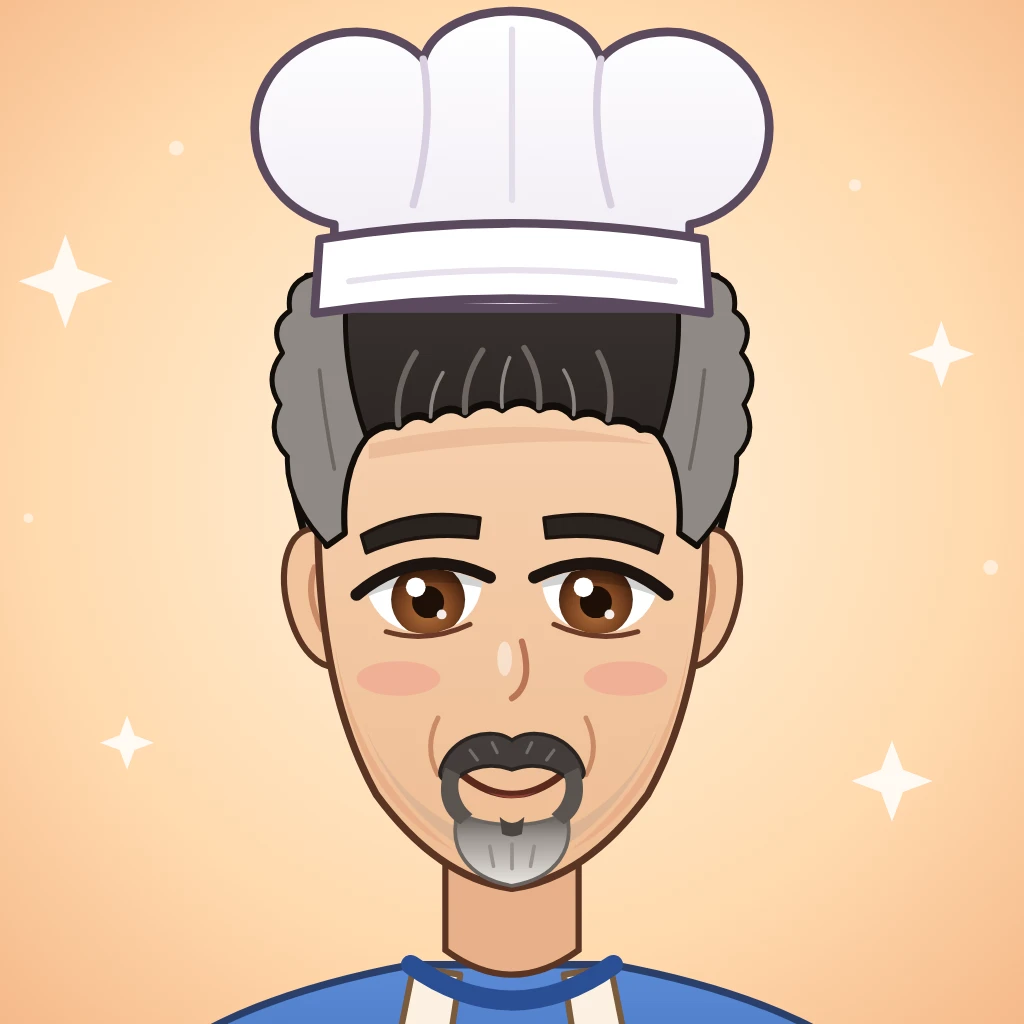
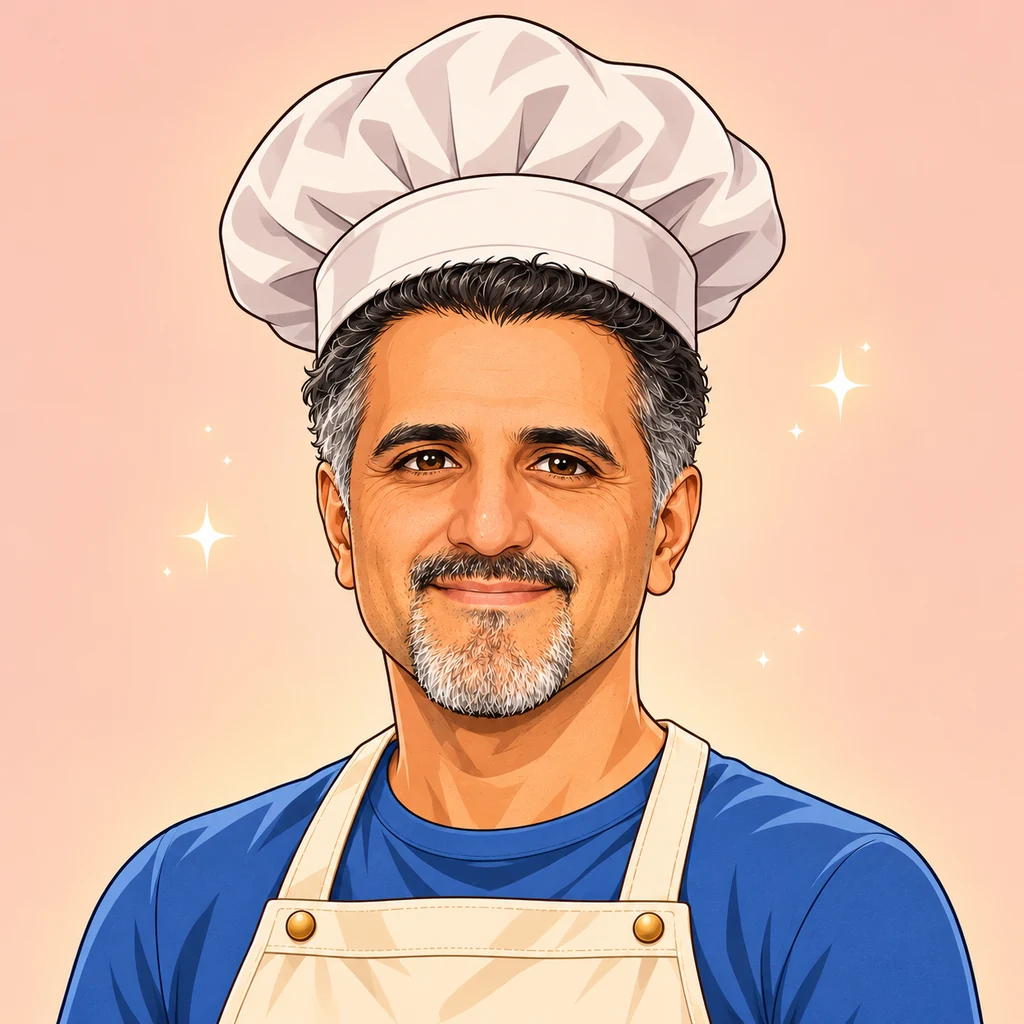
Replace baker portrait with a higher-quality GPT-generated illustration
Generated with ChatGPT image generation from the profile photo: anime-style
baker in chef's hat and apron, no glasses, full-bleed 1024x1024 square so the
page's circular crop has no dark corners. Drop the hand-drawn SVG source that
no longer matches, and update the alt text and README.

diff --git a/index.html b/index.html
@@ -494,7 +494,7 @@
       <div>
         <figure class="baker">
           <div class="baker-frame">
-            <img src="images/baker-portrait.webp" alt="Anime-style cartoon of me as a baker, in a chef's hat and apron" width="1024" height="1024" onerror="this.closest('.baker').remove()">
+            <img src="images/baker-portrait.webp" alt="Anime-style illustration of me as a baker, in a chef's hat and apron" width="1024" height="1024" onerror="this.closest('.baker').remove()">
             <span class="spark s1" aria-hidden="true">✦</span>
             <span class="spark s2" aria-hidden="true">✦</span>
           </div>

diff --git a/README.md b/README.md
@@ -4,7 +4,7 @@ A one-page showcase of my baking recipes. Open `index.html` in a browser. Click 
 
 Each recipe page opens with an **At a glance** panel: oven temperature, bake time, how many ingredients, and a bar showing what goes in by weight (ml counted as grams, an egg as about 50 g). These are read from the note's text. The recipe below them is still shown exactly as written. Each cake is shown with its own photo: the first picture in the note. A recipe without a photo, or whose photo won't load, gets a drawn cake instead, made from the recipe name: loaves, bundts, cheesecakes and layer cakes get their own shapes, and flavours like chocolate, lemon or carrot pick the colours.
 
-The banner shows an anime-style cartoon of me as a baker (`images/baker-portrait.webp`), drawn from my profile photo. Its source is `images/baker-portrait.svg`; after editing it, re-export a 1024×1024 WebP. To swap it, replace that file with another square image. If the file is missing, the portrait is simply hidden.
+The banner shows an anime-style illustration of me as a baker (`images/baker-portrait.webp`), generated with ChatGPT from my profile photo. It's a full-bleed 1024×1024 square; the page crops it to a circle, so keep the face and hat inside the middle. To swap it, replace that file with another square image. If the file is missing, the portrait is simply hidden.
 
 Use the **Share** button (top right of the book, or next to **Print** on a recipe) to pick a platform: WhatsApp, Facebook, X, Pinterest, Reddit, Telegram, Email or Text. You can also copy the link. On phones and in Safari, **More…** opens the device's own share menu. A shared recipe links straight to that recipe. Links only work for other people once the page is online. A `file://` link only opens on your own computer.
 
